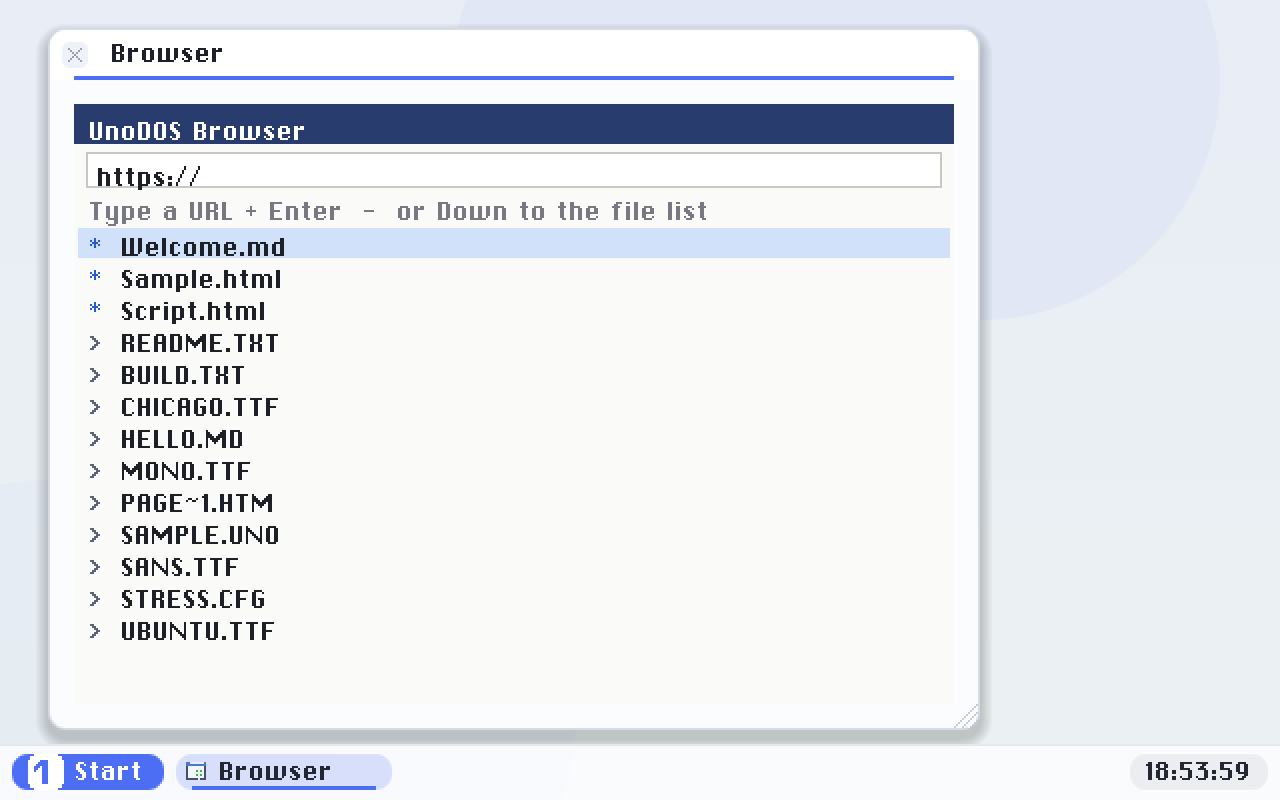
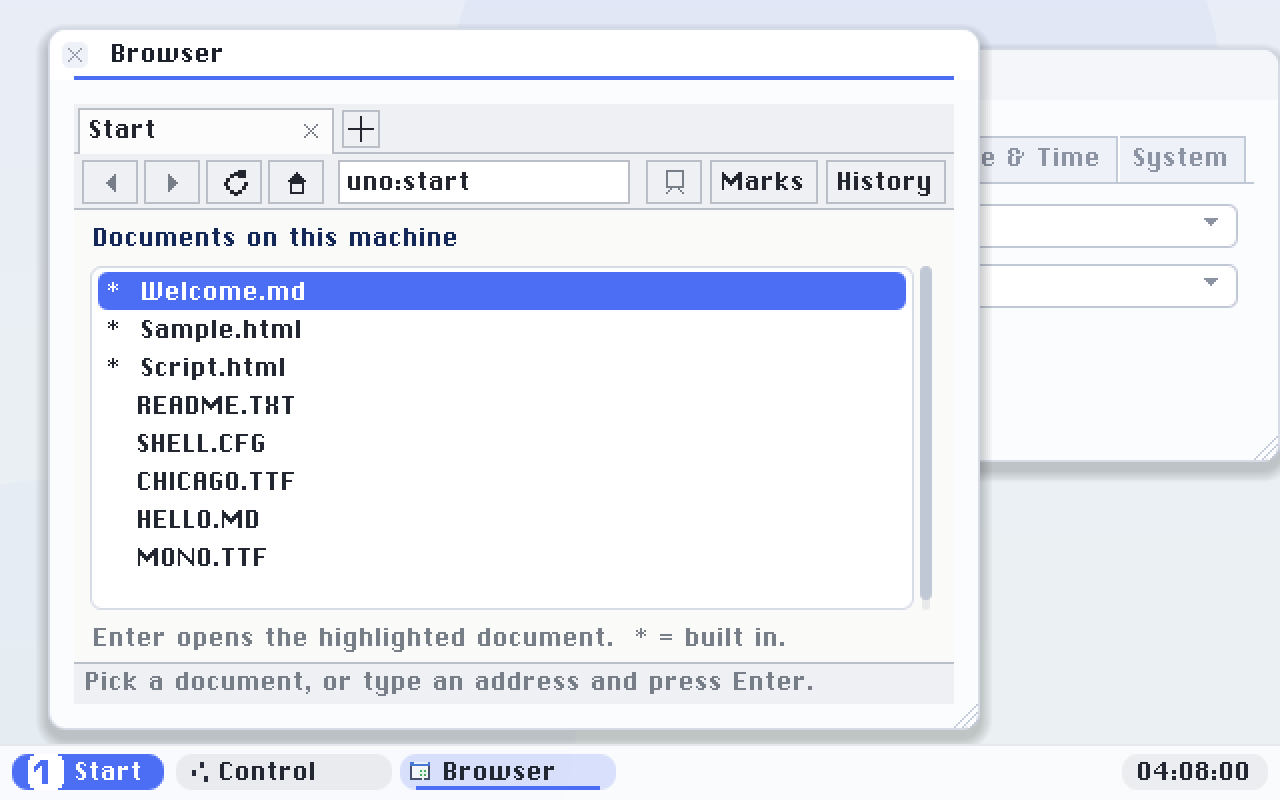
docs: manual - the browser's tabs, toolbar, bookmarks and history
The manual still described the old file-list-and-address-bar browser. New
prose for the start page, the tab strip and the toolbar, a keyboard table,
and two fresh screenshots (the start page, the Marks panel).

diff --git a/docs/browser.html b/docs/browser.html
@@ -86,11 +86,30 @@
 <p class="lede">A built-in web browser that shows HTML, Markdown and basic CSS, runs JavaScript, and loads
 pages from local disks or over the web (HTTP and HTTPS).</p>
 
-<h2 id="files">Files and the address bar</h2>
-<p>The browser opens on a file list that shows the built-in RAM disk and any FAT-formatted USB sticks or
-disks together. Type a web address in the bar at the top, or press <kbd>↓</kbd> to move into the file
-list; <kbd>Enter</kbd> opens a file and <kbd>Backspace</kbd> goes back.</p>
-<figure><button type="button" class="zoom" data-full="assets/img/browser_files.png" aria-label="Enlarge: The file list: built-in documents (✳) and USB or disk files (›) together, with the web address bar on top."><img src="assets/img/browser_files.png" alt="The file list: built-in documents (✳) and USB or disk files (›) together, with the web address bar on top." loading="lazy"></button><figcaption>The file list: built-in documents (✳) and USB or disk files (›) together, with the web address bar on top.</figcaption></figure>
+<h2 id="start">Tabs, the toolbar and the start page</h2>
+<p>The browser opens on its <strong>start page</strong>: the built-in documents (marked ✳) and every
+file on the RAM disk, USB sticks and hard disks, in one scrolling list. <kbd>Enter</kbd> opens the
+highlighted document.</p>
+<p>Above it are a <strong>tab strip</strong> and a <strong>toolbar</strong>: back and forward, reload,
+the start page, the address bar, a bookmark button, and the <strong>Marks</strong> and
+<strong>History</strong> panels. Type a web address in the bar and press <kbd>Enter</kbd> to go
+there.</p>
+<figure><button type="button" class="zoom" data-full="assets/img/browser_files.png" aria-label="Enlarge: The start page: built-in documents and disk files in one scrolling list, under the tab strip and toolbar."><img src="assets/img/browser_files.png" alt="The start page: built-in documents and disk files in one scrolling list, under the tab strip and toolbar." loading="lazy"></button><figcaption>The start page: built-in documents and disk files in one scrolling list, under the tab strip and toolbar.</figcaption></figure>
+<p>Bookmarks are saved on disk, so they are still there after a restart; history is kept for as long as
+the machine is running. Both open as a panel under the toolbar, and both are lists you can scroll.</p>
+<figure><button type="button" class="zoom" data-full="assets/img/browser_marks.png" aria-label="Enlarge: The Marks panel. The ribbon button on the toolbar turns gold on a page that is bookmarked."><img src="assets/img/browser_marks.png" alt="The Marks panel. The ribbon button on the toolbar turns gold on a page that is bookmarked." loading="lazy"></button><figcaption>The <b>Marks</b> panel. The ribbon button on the toolbar turns gold on a page that is bookmarked.</figcaption></figure>
+<table>
+<tr><th>Key</th><th>What it does</th></tr>
+<tr><td><kbd>Backspace</kbd></td><td>Back to the previous page</td></tr>
+<tr><td><kbd>←</kbd> / <kbd>→</kbd></td><td>Step through the links on the page</td></tr>
+<tr><td><kbd>Enter</kbd></td><td>Follow the selected link</td></tr>
+<tr><td><kbd>↑</kbd> / <kbd>↓</kbd> / <kbd>PgUp</kbd> / <kbd>PgDn</kbd></td><td>Scroll the page</td></tr>
+<tr><td><kbd>Ctrl</kbd>+<kbd>T</kbd></td><td>New tab</td></tr>
+<tr><td><kbd>Ctrl</kbd>+<kbd>L</kbd></td><td>Jump to the address bar</td></tr>
+<tr><td><kbd>Ctrl</kbd>+<kbd>D</kbd></td><td>Bookmark this page</td></tr>
+<tr><td><kbd>Ctrl</kbd>+<kbd>B</kbd> / <kbd>Ctrl</kbd>+<kbd>H</kbd></td><td>Bookmarks / History panel</td></tr>
+<tr><td><kbd>F5</kbd></td><td>Reload</td></tr>
+</table>
 
 <h2 id="render">HTML, Markdown &amp; CSS</h2>
 <p>The browser lays out headings, word-wrapped paragraphs, bold and italic, code, links, lists and

diff --git a/docs/build_site.py b/docs/build_site.py
@@ -1109,11 +1109,30 @@ PAGES["browser.html"] = ("Web browser", f"""
 <p class="lede">A built-in web browser that shows HTML, Markdown and basic CSS, runs JavaScript, and loads
 pages from local disks or over the web (HTTP and HTTPS).</p>
 
-<h2 id="files">Files and the address bar</h2>
-<p>The browser opens on a file list that shows the built-in RAM disk and any FAT-formatted USB sticks or
-disks together. Type a web address in the bar at the top, or press <kbd>↓</kbd> to move into the file
-list; <kbd>Enter</kbd> opens a file and <kbd>Backspace</kbd> goes back.</p>
-{fig("browser_files.png", "The file list: built-in documents (✳) and USB or disk files (›) together, with the web address bar on top.")}
+<h2 id="start">Tabs, the toolbar and the start page</h2>
+<p>The browser opens on its <strong>start page</strong>: the built-in documents (marked ✳) and every
+file on the RAM disk, USB sticks and hard disks, in one scrolling list. <kbd>Enter</kbd> opens the
+highlighted document.</p>
+<p>Above it are a <strong>tab strip</strong> and a <strong>toolbar</strong>: back and forward, reload,
+the start page, the address bar, a bookmark button, and the <strong>Marks</strong> and
+<strong>History</strong> panels. Type a web address in the bar and press <kbd>Enter</kbd> to go
+there.</p>
+{fig("browser_files.png", "The start page: built-in documents and disk files in one scrolling list, under the tab strip and toolbar.")}
+<p>Bookmarks are saved on disk, so they are still there after a restart; history is kept for as long as
+the machine is running. Both open as a panel under the toolbar, and both are lists you can scroll.</p>
+{fig("browser_marks.png", "The <b>Marks</b> panel. The ribbon button on the toolbar turns gold on a page that is bookmarked.")}
+<table>
+<tr><th>Key</th><th>What it does</th></tr>
+<tr><td><kbd>Backspace</kbd></td><td>Back to the previous page</td></tr>
+<tr><td><kbd>←</kbd> / <kbd>→</kbd></td><td>Step through the links on the page</td></tr>
+<tr><td><kbd>Enter</kbd></td><td>Follow the selected link</td></tr>
+<tr><td><kbd>↑</kbd> / <kbd>↓</kbd> / <kbd>PgUp</kbd> / <kbd>PgDn</kbd></td><td>Scroll the page</td></tr>
+<tr><td><kbd>Ctrl</kbd>+<kbd>T</kbd></td><td>New tab</td></tr>
+<tr><td><kbd>Ctrl</kbd>+<kbd>L</kbd></td><td>Jump to the address bar</td></tr>
+<tr><td><kbd>Ctrl</kbd>+<kbd>D</kbd></td><td>Bookmark this page</td></tr>
+<tr><td><kbd>Ctrl</kbd>+<kbd>B</kbd> / <kbd>Ctrl</kbd>+<kbd>H</kbd></td><td>Bookmarks / History panel</td></tr>
+<tr><td><kbd>F5</kbd></td><td>Reload</td></tr>
+</table>
 
 <h2 id="render">HTML, Markdown &amp; CSS</h2>
 <p>The browser lays out headings, word-wrapped paragraphs, bold and italic, code, links, lists and
